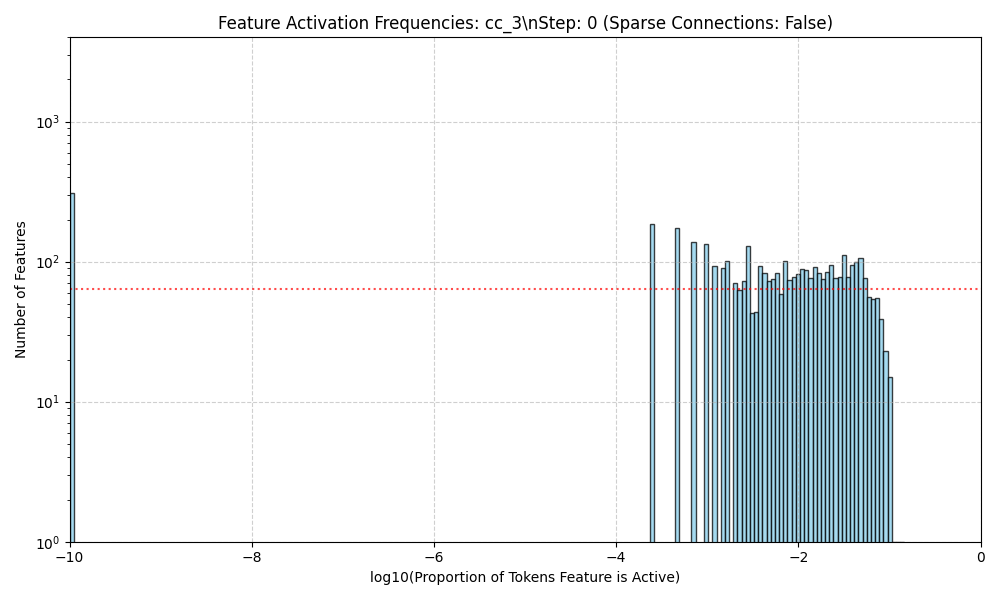
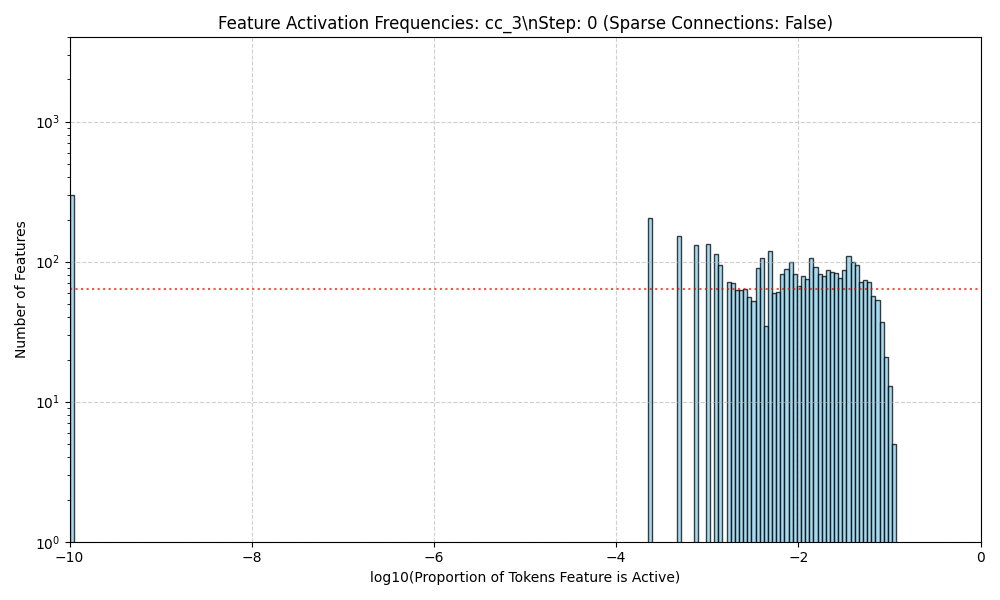
klkegrj

Changed region(s): [[0.62, 0.36, 0.899, 0.93]]

diff --git a/dictionary_learning/mask_trainer.py b/dictionary_learning/mask_trainer.py
@@ -1,6 +1,7 @@
 import os
 import signal
 import sys
+import re # Added import for re
 from dataclasses import dataclass
 from typing import Dict, Union, Optional
 
@@ -183,6 +184,16 @@ def signal_handler(sig, frame):
 
 # Register signal handler for keyboard interrupts
 signal.signal(signal.SIGINT, signal_handler)
+
+
+# Helper function to sanitize repository names
+def sanitize_hf_name(name: str) -> str:
+    # Replace spaces and invalid characters with underscores
+    name = re.sub(r"[^a-zA-Z0-9_.-]+", "_", name)
+    # Remove leading/trailing hyphens or dots
+    name = re.sub(r"^[.-]+|[.-]+$", "", name)
+    # Ensure max length
+    return name[:96]
 
 
 class SCAETrainer:
@@ -833,7 +844,7 @@ class SCAETrainer:
 
         # Update dead feature tracker (using sparse features as decided)
         if self.cfg.track_dead_features: # AuxK is ignored, but dead feature tracking might still be useful for observation
-            self.update_dead_features(pruned_features_sparse, input_ids.numel())
+            self.update_dead_features(pruned_features_non_sparse, input_ids.numel())
 
         # Combine losses with coefficients
         total_loss = 0.0
@@ -922,7 +933,24 @@ class SCAETrainer:
                 self.global_step += 1
 
         if self.cfg.save_to_hf:
-            model_save_name = self.cfg.model_name.split("/")[-1]
-            hf_repo_save_id = f"{self.cfg.hf_username}/{model_save_name}_{self.cfg.wb_run_name}"
+            username = self.cfg.hf_username
+            model_name_part = self.cfg.model_name.split("/")[-1]
+            run_name_part = self.cfg.wb_run_name
+
+            # Sanitize the run name part specifically, as it's most likely to contain invalid characters
+            sanitized_run_name_specific = sanitize_hf_name(run_name_part)
+
+            # Combine model name and the specifically sanitized run name to form the repository name
+            repo_name_candidate = f"{model_name_part}_{sanitized_run_name_specific}"
+
+            # Sanitize the combined repository name to ensure it meets all HF naming rules
+            final_repo_name = sanitize_hf_name(repo_name_candidate)
+
+            # Construct the full repo_id, ensuring the slash is preserved
+            hf_repo_save_id = f"{username}/{final_repo_name}"
+            # No further global sanitization on hf_repo_save_id to protect the '/'
+
+            if self.rank == 0:
+                print(f"Attempting to use Hugging Face repo ID: {hf_repo_save_id}")
             self.model.module.scae_suite.upload_to_hf(repo_id=hf_repo_save_id)
         cleanup()

diff --git a/mask_ft.py b/mask_ft.py
@@ -16,7 +16,7 @@ N_CPUS = 19 // 2
 
 
 PATH_TO_PILE = "/root/dictionary_learning/pile-uncopyrighted"
-N_TOKENS = 50_000_000
+N_TOKENS = 10_000
 CFG = SCAEConfig(
     model_name="EleutherAI/pythia-70m",
     wb_project="pythia_scae_cc",
@@ -38,8 +38,8 @@ CFG = SCAEConfig(
     ce_loss_sparse_coeff=0,
     fvu_loss_coeff = 1.0,
     fvu_loss_sparse_coeff=1.0,
-    feature_act_fvu_coeff=0.1,
-    mask_loss_coeff=1e-5,
+    feature_act_fvu_coeff=0.02,
+    mask_loss_coeff=2e-5,
 )
 
 if __name__ == "__main__":

diff --git a/dictionary_learning/mask_scae.py b/dictionary_learning/mask_scae.py
@@ -5,6 +5,9 @@ import einops
 import torch as t
 import torch.nn as nn
 from transformer_lens import ActivationCache, HookedTransformer
+import tempfile
+import os
+
 
 from .top_k import AutoEncoderTopK, CrosscoderTopK
 from .utils import LearnableMask, SimpleBinaryMask
